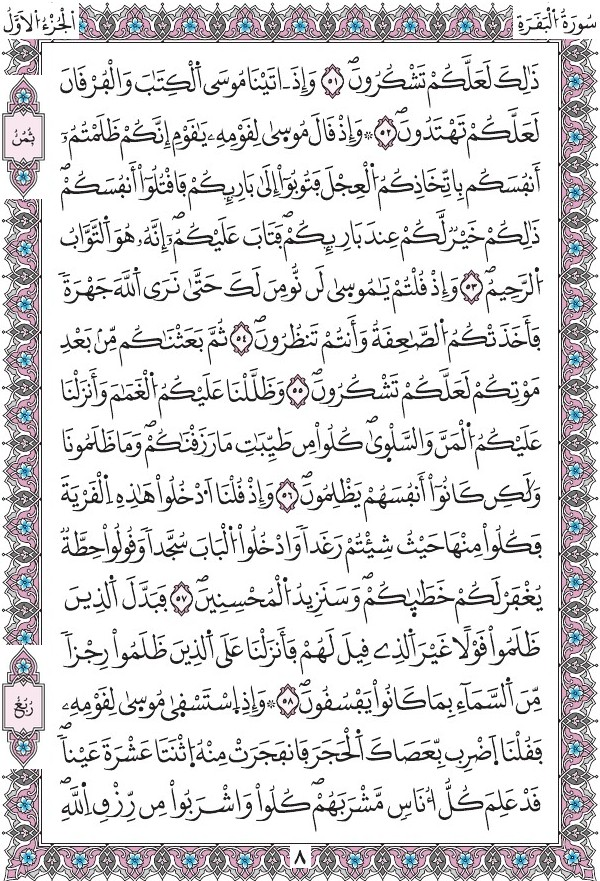
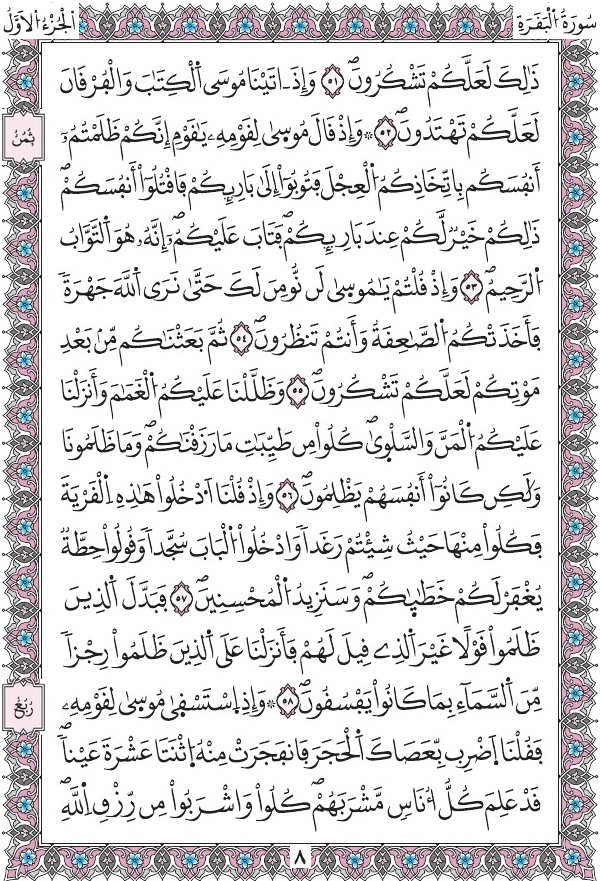
Mushaf 3: medallon mas pequeno, sin las lineas que tapaban el marco
Claude-Session: https://claude.ai/code/session_01JYfFVVkZGb5ezyMwxu4Qb4

Changed region(s): [[0.0, 0.7049, 0.09, 0.8888], [0.0, 0.0613, 0.09, 0.2452]]

diff --git a/sw.js b/sw.js
@@ -1,6 +1,6 @@
 // sw.js — service worker de la versión web (PWA). No se registra dentro de la app de Android.
 // Al cambiar archivos de la app, subir CACHE_VERSION para que los móviles descarguen la versión nueva.
-const CACHE_VERSION = 'zad-v125';
+const CACHE_VERSION = 'zad-v126';
 const CORE_CACHE = CACHE_VERSION + '-core';
 const RUNTIME_CACHE = CACHE_VERSION + '-runtime';
 
